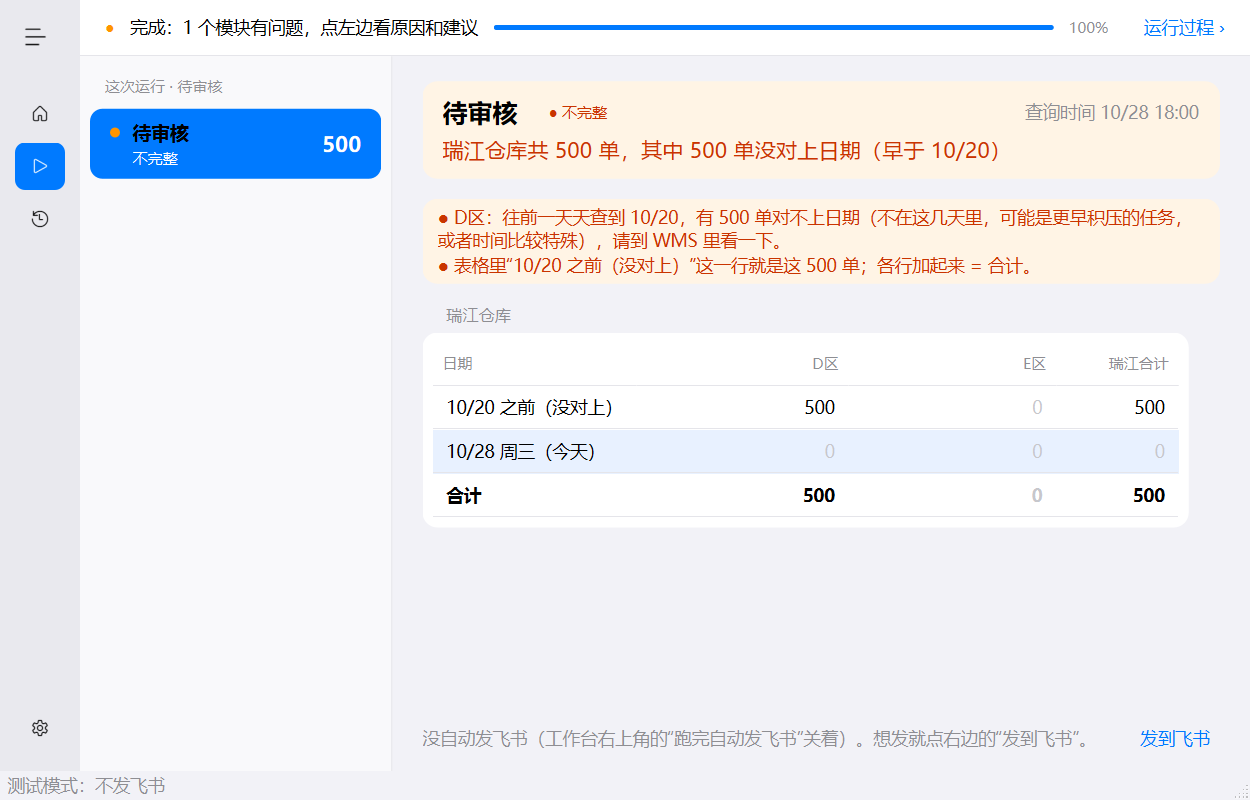
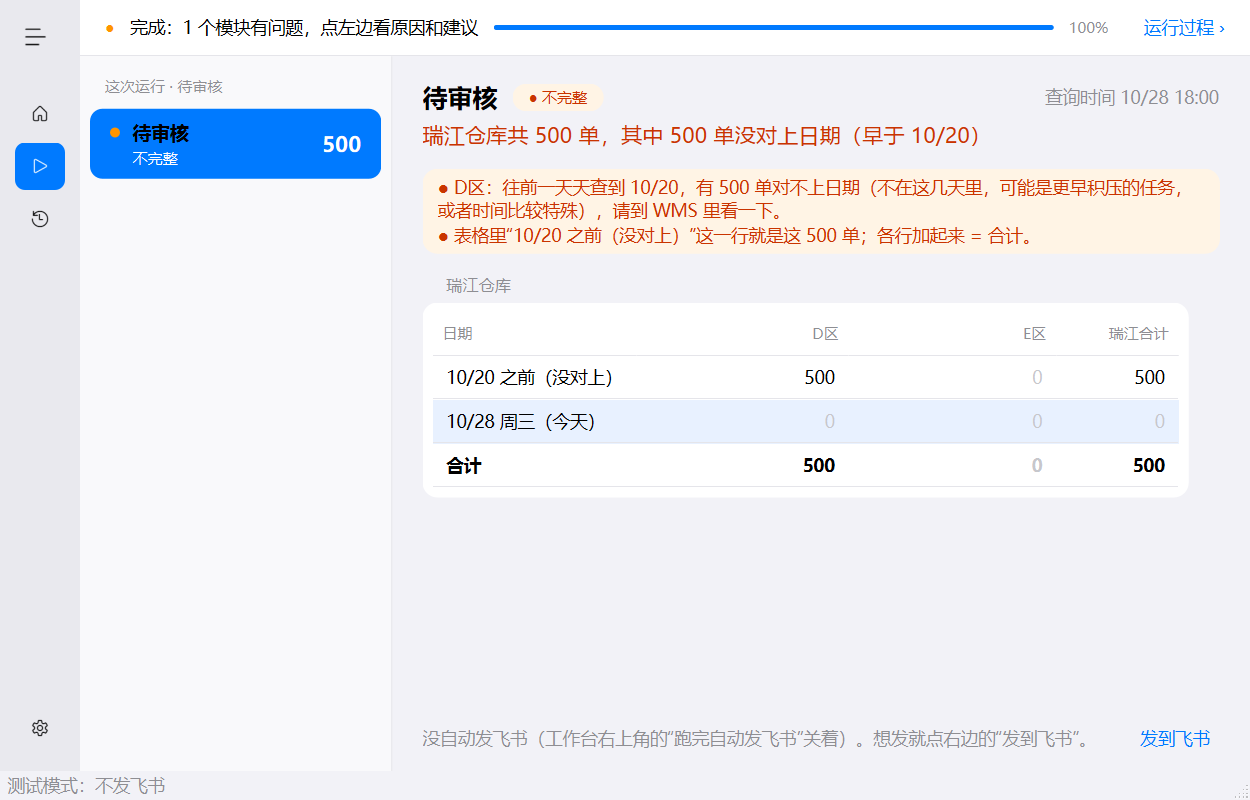
往前查对不上：飞书卡片和文字版跟窗口一样（小柒 2026-10-29 看了卡片效果图说“可以”）：最上面一句结论、表格首行“某日之前（没对上）M”、两句提醒、“⚠ 状态：不完整（M 单没对上日期……）”；待拣货合箱 / 单箱分表也加；正常和“各天之和比总数多”的卡片逐字不变；更新 4 张“对不上”基准截图（结论条底色随 16771ae）

diff --git a/公共/待处理.py b/公共/待处理.py
@@ -9,7 +9,8 @@
 #   查到 0 时各天之和比总数还多（查的过程中任务有变动）→ 马上停，不再多查，标 ⚠“任务有变动，多 N 条”（2026-10-29）。
 #   7 天内对不上（总数比各天之和多）时的显示（小柒 2026-10-29 确认效果图）：状态“不完整”（橙色），结论写
 #   “X仓库共 N 单（今天 T 单），其中 M 单没对上日期（早于 某日）”，窗口和 Excel 的表格最上面加一行“某日之前（没对上）M”，
-#   各行加起来 = 合计。飞书卡片照旧（还是“成功”的写法 + ⚠ 提醒）。
+#   各行加起来 = 合计。飞书卡片和文字版一样（小柒 2026-10-29 确认卡片效果图）：最上面一句结论、表格首行同上、两句提醒、
+#   “⚠ 状态：不完整（M 单没对上日期……）”；待拣货合箱 / 单箱分表也有这一行。
 #   待拣货有两类（合箱、单箱）：各自按上面规则查，合计的起点 = 两者里更早的那个（更早的日子两类都已证明是 0）。
 #
 # 查询范围（仓库 / 单独的区）的规则见 公共\查询范围.py（和无任务包裹共用）。
@@ -267,8 +268,8 @@ def 做组表(结果, 组名, 区们, 类们, 至少=False):
     第一个有数 = next((i for i, 行 in enumerate(行们) if any(v not in (0, "0") for v in 行[1:])), len(行们))
     行们 = 行们[max(0, 第一个有数 - 1):]
     更早 = 没对上的(结果, 区们, 类们)
-    if 至少 and 更早["数"]:
-        # 窗口和 Excel（小柒 2026-10-29 确认效果图）：最上面一行“X 之前（没对上）M”，各行加起来 = 合计。飞书卡片不加（照旧）
+    if 更早["数"]:
+        # 窗口、Excel、飞书卡片（小柒 2026-10-29 确认效果图）：最上面一行“X 之前（没对上）M”，各行加起来 = 合计
         值们 = [_加([("失败" if 数据.get(类, {}).get(区, "失败") == "失败" else _没对上(数据[类][区])) for 类 in 类们], 至少)
               for 区 in 区们]
         行们.insert(0, [更早["行名"]] + 值们 + ([_加(值们, 至少)] if 多区 else []))
@@ -283,13 +284,9 @@ def 做组表(结果, 组名, 区们, 类们, 至少=False):
                     提醒们.append(f"⚠ {区}{类字}：查的过程中任务有变动，各天合计比总数多 {-r['差']} 条（不是漏查）")
                     continue
                 查到 = r.get("查到", r["起点"])
-                if 至少:     # 窗口的说法（效果图）
-                    提醒们.append(f"⚠ {区}{类字}：往前一天天查到 {查到:%m/%d}，有 {r['差']} 单对不上日期（不在这几天里，"
-                                 f"可能是更早积压的任务，或者时间比较特殊），请到 WMS 里看一下。")
-                    continue
-                提醒们.append(f"⚠ {区}{类字}：往前查到 {查到:%m/%d}，还有 {r['差']} 条对不上（可能是更早积压的任务，"
-                             f"或者时间比较特殊），请到 WMS 里看一下")
-    if 至少 and 更早["数"]:
+                提醒们.append(f"⚠ {区}{类字}：往前一天天查到 {查到:%m/%d}，有 {r['差']} 单对不上日期（不在这几天里，"
+                             f"可能是更早积压的任务，或者时间比较特殊），请到 WMS 里看一下。")
+    if 更早["数"]:
         提醒们.append(f"⚠ 表格里“{更早['行名']}”这一行就是这 {更早['数']} 单；各行加起来 = 合计。")
     return 列名, 行们, 提醒们
 
@@ -316,10 +313,13 @@ def 组成消息(配置, 结果, 文件夹名):
     卡片们, 表们, 全部备注, 文字段 = [], [], [], []
     共同备注 = []
     有失败格 = any(v == "失败" for 类 in 结果["数据"] for v in 结果["数据"][类].values())
-    # 飞书卡片照旧（2026-10-29 只改窗口和 Excel）：只是“没对上日期”的不完整，卡片还按以前的“成功”写
-    卡片状态 = "成功" if 结果["状态"] == "不完整" and not 有失败格 else 结果["状态"]
+    卡片状态 = 结果["状态"]          # 飞书卡片和窗口同一个状态（小柒 2026-10-29 确认效果图）
+    全部区 = [区 for _, 区们 in 结果["组们"] or [] for 区 in 区们]
+    没对上数 = 没对上的(结果, 全部区, 类们)["数"] if 结果["数据"] else 0
     if 卡片状态 != "成功":
-        共同备注.append(f"⚠ 状态：{卡片状态}" + ("（标“失败”的格子没查到，不是 0）" if 卡片状态 == "不完整" else ""))
+        为什么 = ([f"标“失败”的格子没查到，不是 0"] if 有失败格 else []) + \
+              ([f"{没对上数} 单没对上日期，见表格第一行；不是漏查"] if 没对上数 else [])
+        共同备注.append(f"⚠ 状态：{卡片状态}" + (f"（{'；'.join(为什么)}）" if 卡片状态 == "不完整" and 为什么 else ""))
         for e in 结果.get("错误列表", []):
             共同备注.append(e.一句话(名))
         共同备注.append(f"日志：{文件夹名}")
@@ -335,21 +335,6 @@ def 组成消息(配置, 结果, 文件夹名):
             卡片们.append(表格.组卡片(标题, [表格.文字元素("\n".join(共同备注) or "没有查到数据")], 颜色基))
             文字段.append(标题 + "\n" + "\n".join(共同备注))
             continue
-        列名, 行们, 提醒们 = 做组表(结果, 组名, 区们, 类们)
-        备注 = 提醒们 + 共同备注
-        元素 = [表格.表格元素(列名, 行们)]
-        分表 = []
-        if len(类们) > 1:   # 待拣货：合箱、单箱分开的数字放折叠条（飞书不允许折叠条里放表格，用对齐文字）
-            for 类 in 类们:
-                列2, 行2, _ = 做组表(结果, 组名, 区们, [类])
-                元素.append(表格.折叠面板(f"**{类}**", [表格.代码块(表格.文字表格(列2, 行2))]))
-                分表.append((f"{组名} · {类}", 列2, 行2))
-        元素 += [表格.文字元素(句) for 句 in 备注]
-        颜色 = "orange" if 颜色基 == "blue" and 提醒们 else 颜色基
-        卡片们.append(表格.组卡片(标题, 元素, 颜色))
-        表们.append((标题, 列名, 行们))
-        全部备注 += 备注
-        文字段.append(标题 + "\n" + 表格.文字表格(列名, 行们) + ("\n" + "\n".join(备注) if 备注 else ""))
         # —— 窗口和 Excel（小柒 2026-10-28 确认效果图）：只有没查到的格子写“失败”，受影响的合计写“N+”（至少这么多）——
         列W, 行W, 提醒W = 做组表(结果, 组名, 区们, 类们, 至少=True)
         分表W = [(类, *做组表(结果, 组名, 区们, [类], 至少=True)[:2]) for 类 in 类们] if len(类们) > 1 else []
@@ -371,6 +356,24 @@ def 组成消息(配置, 结果, 文件夹名):
             结论们.append(f"{组名}共 {合计} 单" + (f"（今天 {今天数} 单）" if 今天数 else "") + f"，{没对上句}")
         else:
             结论们.append(f"{组名}{名} {合计} 单" + (f"，最早是 {最早} 的" if 最早 and 合计 != "0" else ""))
+        # —— 飞书卡片和文字 ——
+        列名, 行们, 提醒们 = 做组表(结果, 组名, 区们, 类们)
+        备注 = 提醒们 + 共同备注
+        元素 = [表格.表格元素(列名, 行们)]
+        头句 = 结论们[-1] if 没对上句 else ""      # 有单子没对上日期：卡片最上面先写结论（同窗口，小柒 2026-10-29 确认效果图）
+        if 头句:
+            元素.insert(0, 表格.文字元素(f"**{头句}**"))
+        if len(类们) > 1:   # 待拣货：合箱、单箱分开的数字放折叠条（飞书不允许折叠条里放表格，用对齐文字）
+            for 类 in 类们:
+                列2, 行2, _ = 做组表(结果, 组名, 区们, [类])
+                元素.append(表格.折叠面板(f"**{类}**", [表格.代码块(表格.文字表格(列2, 行2))]))
+        元素 += [表格.文字元素(句) for 句 in 备注]
+        颜色 = "orange" if 颜色基 == "blue" and 提醒们 else 颜色基
+        卡片们.append(表格.组卡片(标题, 元素, 颜色))
+        表们.append((标题, 列名, 行们))
+        全部备注 += 备注
+        文字段.append(标题 + "\n" + (头句 + "\n" if 头句 else "") + 表格.文字表格(列名, 行们)
+                   + ("\n" + "\n".join(备注) if 备注 else ""))
         if 缺格 and 合计 != "失败":
             对不上们.append(f"没查到的格子：{组名} · {'、'.join(缺格)}（不是 0）。其他格子都查到了，照常显示；"
                          f"带“+”的数表示“至少这么多”（没查到的那格不在里面）。")
@@ -378,7 +381,7 @@ def 组成消息(配置, 结果, 文件夹名):
         全对上 = all(数据.get(类, {}).get(区, "失败") != "失败" and 数据[类][区]["对上"] for 类 in 类们 for 区 in 区们)
         数量表们.append({"名": 组名, "起点": 全对上,
                       "视图们": [("合计", 列W, 行W)] + [(类, 列2, 行2) for 类, 列2, 行2 in 分表W]})
-        对不上们 += 提醒W          # 窗口橙框用窗口的说法；飞书卡片的备注还是 提醒们（照旧）
+        对不上们 += 提醒W
     附件 = None
     if Excel表们:
         try:

diff --git a/自测/安全网.py b/自测/安全网.py
@@ -72,7 +72,7 @@ from PySide6.QtCore import QRect, Qt, QTimer  # noqa: E402
 from PySide6.QtGui import QColor, QFont, QImage, QPainter  # noqa: E402
 from PySide6.QtWidgets import QAbstractScrollArea, QLabel, QPushButton, QStatusBar, QTableWidget, QWidget  # noqa: E402
 
-from 公共 import 待处理, 结果页, 窗口, 飞书, 邮编  # noqa: E402
+from 公共 import 待处理, 结果页, 窗口, 表格, 飞书, 邮编  # noqa: E402
 from 公共.错误 import 自动化错误, 网络超时, 等不到  # noqa: E402
 from 公共.界面 import 提示, 工作台 as 台  # noqa: E402
 import importlib  # noqa: E402
@@ -320,9 +320,15 @@ def 模块检查():
              首行[0] == "10/20 之前（没对上）" and 首行[-1] == 500 - 今天数 and 各行和 == 500 and 合计行[-1] == "**500**", 行们)
         句 = f"瑞江仓库共 500 单" + (f"（今天 {今天数} 单）" if 今天数 else "") + f"，其中 {500 - 今天数} 单没对上日期（早于 10/20）"
         检查("往前查", f"{名}：结论写“{句}”", m["结论"] == 句, m["结论"])
-        卡 = str(m["卡片们"]) + m["文字"]
-        检查("往前查", f"{名}：飞书卡片照旧（不写“不完整”、不加“没对上”一行）",
-             "不完整" not in 卡 and "没对上" not in 卡 and "还有 " + str(500 - 今天数) + " 条对不上" in 卡, "")
+        卡 = m["卡片们"][0]
+        元素 = 卡["body"]["elements"]
+        卡字 = str(卡) + m["文字"]
+        表 = next(e for e in 元素 if e["tag"] == "table")
+        检查("往前查", f"{名}：飞书卡片同窗口（最上面结论、表格首行“没对上”、写“不完整”、橙色、文字版也有）",
+             元素[0] == {"tag": "markdown", "content": f"**{句}**"} and 表["rows"][0]["c0"] == "10/20 之前（没对上）"
+             and 表["rows"][0]["c3"] == str(500 - 今天数) and f"⚠ 状态：不完整（{500 - 今天数} 单没对上日期" in 卡字
+             and 卡["header"]["template"] == "orange" and 句 in m["文字"] and "10/20 之前（没对上）" in m["文字"]
+             and 表格._大小(卡) < 18000, 元素[:2])
         项 = 成项("待审核", "待审核", 结果, m)
         好, 字, 说 = 画得出(项, 名)
         检查("往前查", f"{名}：结果页画得出来、没有左右滚动", 好, 说)

diff --git a/模块清单.md b/模块清单.md
@@ -49,7 +49,7 @@
 
 - **页面**：仓库管理 → 数据管理 → 任务管理 → 展开；清空创建时间
 - **查法**（小柒 2026-10-23 确认）：每个区先清空时间查全部总数；再从今天起一天天往前查（今天是 0 不算停止点）；查到 0 且各天之和 = 总数就停，这天是表格起点。查到 0 但对不上（中间空一天），自动再往前最多查 7 天；还对不上就标 ⚠。最多往前 60 天。对不上时先重查今天和总数，排除“查询途中数字变了”。查到 0 时各天之和比总数还多（查的过程中任务有变动），马上停、不再多查，提醒写“⚠ E区：查的过程中任务有变动，各天合计比总数多 N 条（不是漏查）”（2026-10-29）。
-- **对不上时的显示**（小柒 2026-10-29 确认效果图）：往前查到最后总数还比各天之和多 M 单时，状态“不完整”（橙色，左边清单、运行总表也是）；结论写“瑞江仓库共 500 单（今天 3 单），其中 497 单没对上日期（早于 10/20）”；窗口和 Excel 的表格最上面加一行“10/20 之前（没对上）497”（几个区查到的日子不同时写“更早（没对上）”），各行加起来 = 合计。飞书卡片照旧（不写“不完整”，不加这一行，只有原来的 ⚠ 提醒）。“各天之和比总数多”的情况不变。
+- **对不上时的显示**（小柒 2026-10-29 确认效果图）：往前查到最后总数还比各天之和多 M 单时，状态“不完整”（橙色，左边清单、运行总表也是）；结论写“瑞江仓库共 500 单（今天 3 单），其中 497 单没对上日期（早于 10/20）”；窗口和 Excel 的表格最上面加一行“10/20 之前（没对上）497”（几个区查到的日子不同时写“更早（没对上）”），各行加起来 = 合计。飞书卡片和文字版一样（小柒 2026-10-29 确认卡片效果图）：最上面一句结论、表格首行“之前（没对上）”、两句提醒、“⚠ 状态：不完整（M 单没对上日期，见表格第一行；不是漏查）”；待拣货的合箱 / 单箱分表也有这一行。“各天之和比总数多”的情况不变。
 - **核对**：每次查询都核对 WMS 实际收到的条件（任务大类、任务状态、区域、日期）和页面上的“共 N 条记录”
 - **防连点**：两次查询至少隔 1 秒，每个区查完总数、第一次按天查前隔约 2 秒；WMS 提示“点击次数过多”时等 3、5、8、8 秒重查，最多 4 次，之后这次运行剩下的查询（各模块共用）都隔 2 秒（2026-10-29）
 - **输出**：每个勾选的仓库（或单独选的区）一张飞书卡片：行 = 起点 0 日 → 今天 + 合计，列 = 各区 + 仓库合计；待拣货另有合箱、单箱两个折叠条。窗口显示同样的表格；Excel 每个仓库一页
